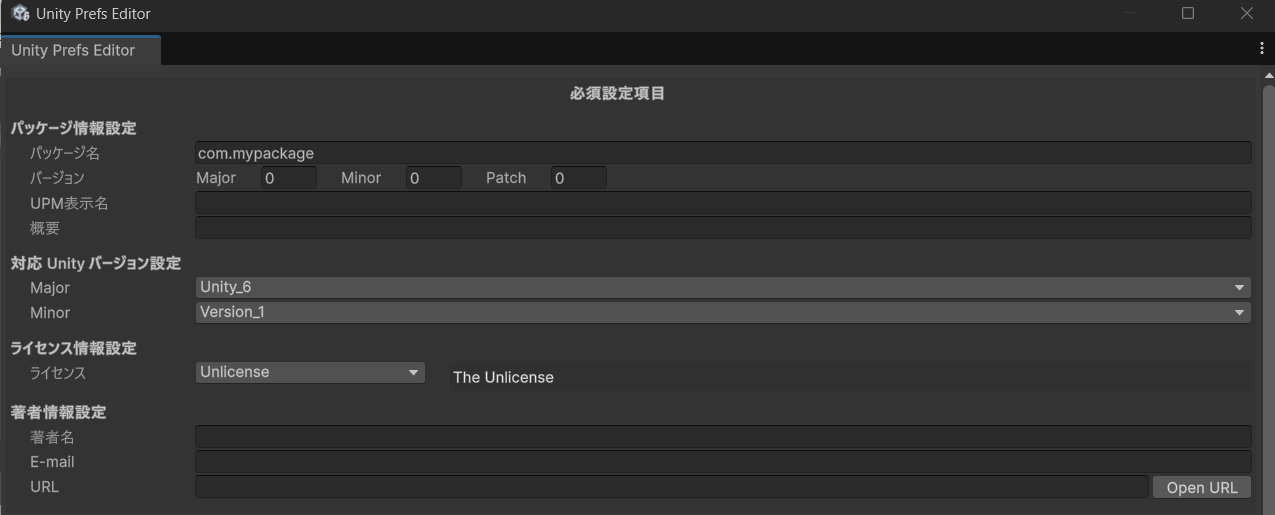
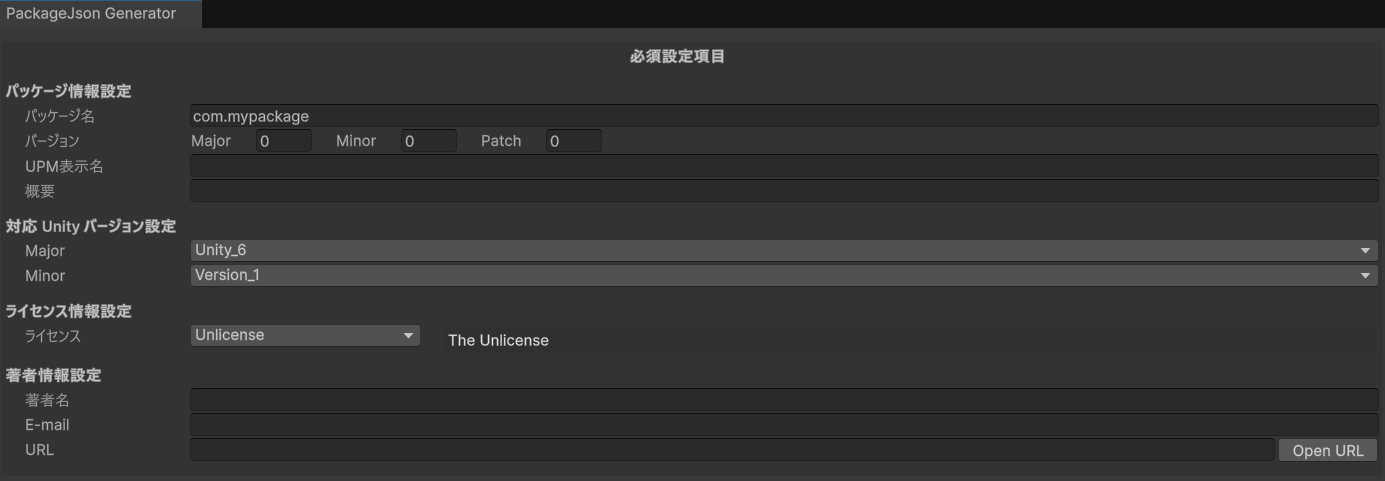
EditorWIndow 名修正

Changed region(s): [[0.0, 0.1559, 1.0, 1.0], [0.0, 0.0, 1.0, 0.2183], [0.9176, 0.0, 0.9482, 0.0312]]

diff --git a/src/PacakgeJsonGenerator/Assets/MAH/Library/PackageJson Generator/Editor/PackageJsonCreateWindow.cs b/src/PacakgeJsonGenerator/Assets/MAH/Library/PackageJson Generator/Editor/PackageJsonCreateWindow.cs
@@ -3,7 +3,6 @@ using System;
 using System.Collections.Generic;
 using System.IO;
 using System.Linq;
-using System.Security.Policy;
 using System.Text.RegularExpressions;
 using UnityEditor;
 using UnityEngine;
@@ -13,8 +12,8 @@ namespace MAH.Tools.PackageJsonGenerator.Editor
     public class PackageJsonCreateWindow : EditorWindow
     {
         //====定数======================================
-        private const string PACKAGE_JSON_CREATE_WINDOW_NAME = "Unity Prefs Editor";
-        private const string PACKAGE_JSON_MENU_PATH = "MAH/Generator/PackageJson Create Window";
+        private const string PACKAGE_JSON_CREATE_WINDOW_NAME = "PackageJson Generator";
+        private const string PACKAGE_JSON_MENU_PATH = "MAH/Generator/PackageJson Generator Window";
 
         private const string PACKGAGE_JSON_OUTPUT_DEFAULT_PATH = "Assets";
 
